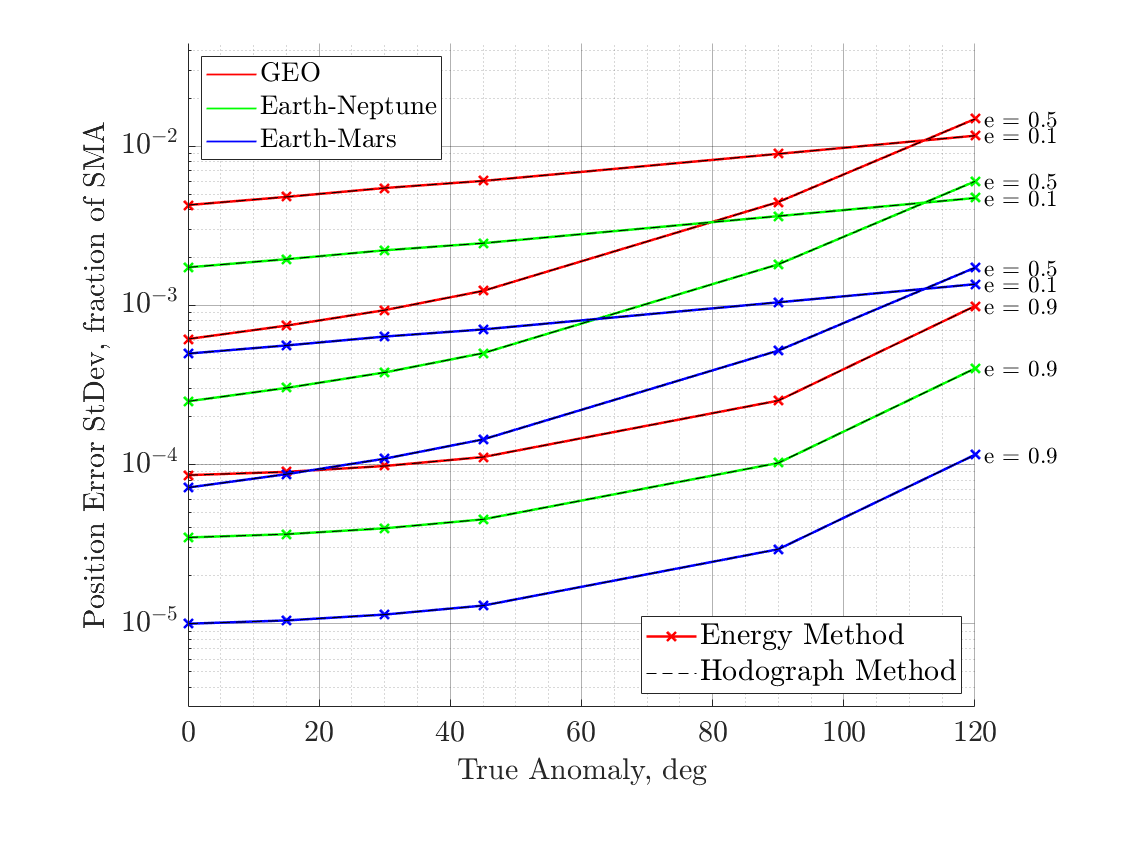
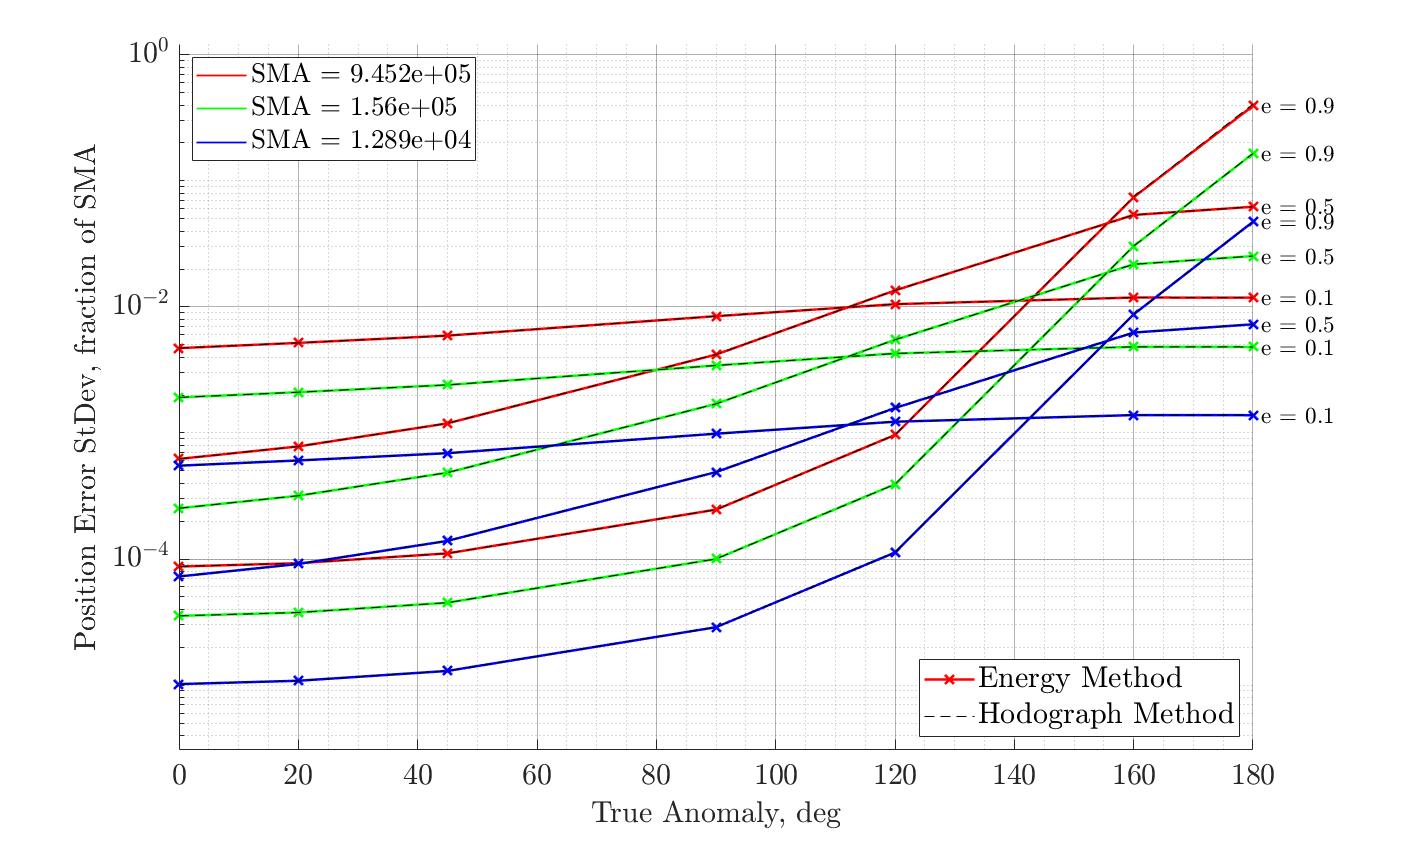
Update orbit parameter plot with latex table output and data saving fcns.
Reshaped plot to better show data and changed true anomaly vector

diff --git a/journal/plotOrbitParams.m b/journal/plotOrbitParams.m
@@ -44,8 +44,15 @@ numObsv = 3; % nd, number of measurements
 duration = 0.1; % nd, measurement duration as fraction of the orbit period
 
 % Monte Carlo settings
-numSims = 100;
+numSims = 1000;
 rngSeed = 1;
+
+% data logging
+filepath = 'data\orbitParams.mat';
+meanOrig = nan(length(eccVect),length(taVect),length(smaVect));
+meanHodo = nan(length(eccVect),length(taVect),length(smaVect));
+ stdOrig = nan(length(eccVect),length(taVect),length(smaVect));
+ stdHodo = nan(length(eccVect),length(taVect),length(smaVect));
 
 %% generate ground truth data and perturbations
 
@@ -145,7 +152,7 @@ taDeg = rad2deg(taVect);
 
 % --- mean error
 figure(1)
-latexify('plotSize',[24 18])
+latexify('plotSize',[30 18])
 hold on
 plot(taDeg,mean(errOrig)/SMA,origFormat,'Color',color,'LineWidth',origWidth)
 plot(taDeg,mean(errHodo)/SMA,hodoFormat,'LineWidth',hodoWidth)
@@ -159,7 +166,7 @@ latexify('fontSize',18)
 
 % --- standard deviation
 figure(2)
-latexify('plotSize',[24 18])
+latexify('plotSize',[30 18])
 hold on
 plot(taDeg,std(errOrig)/SMA,origFormat,'Color',color,'LineWidth',origWidth)
 plot(taDeg,std(errHodo)/SMA,hodoFormat,'LineWidth',hodoWidth)
@@ -171,15 +178,45 @@ ylabel('Position Error StDev, fraction of SMA')
 labelArray{i,j,2} = [taDeg(end),std(errOrig(:,end))/SMA];
 latexify('fontSize',18)
 
+% --- log data
+meanOrig(j,:,i) = mean(errOrig)'/SMA;
+meanHodo(j,:,i) = mean(errHodo)'/SMA;
+ stdOrig(j,:,i) =  std(errOrig)'/SMA;
+ stdHodo(j,:,i) =  std(errHodo)'/SMA;
+
 end %eccVect
 end %smaVect
+
+% save data to file
+save(filepath,'meanOrig','meanHodo','stdOrig','stdHodo',...
+              'smaVect','eccVect','taVect');
+
+% print data in latex table formatting
+regexprep(...
+regexprep(...
+regexprep(latex(vpa(sym(meanOrig(:,:,1)),10)),...
+    '([0-9]+\.[0-9]+)','${num2str(str2num($1),''%.3e'')}'),...
+    '(e[+-][0-9]+)',' \\times 10^{${strtok($1,''e'')}}'),...
+    '((?<=\{[+-])[0-9])','${regexprep($1,''^0*'','''')}')
+regexprep(...
+regexprep(...
+regexprep(latex(vpa(sym(meanOrig(:,:,2)),10)),...
+    '([0-9]+\.[0-9]+)','${num2str(str2num($1),''%.3e'')}'),...
+    '(e[+-][0-9]+)',' \\times 10^{${strtok($1,''e'')}}'),...
+    '((?<=\{[+-])[0-9])','${regexprep($1,''^0*'','''')}')
+regexprep(...
+regexprep(...
+regexprep(latex(vpa(sym(meanOrig(:,:,3)),10)),...
+    '([0-9]+\.[0-9]+)','${num2str(str2num($1),''%.3e'')}'),...
+    '(e[+-][0-9]+)',' \\times 10^{${strtok($1,''e'')}}'),...
+    '((?<=\{[+-])[0-9])','${regexprep($1,''^0*'','''')}')
 
 %% add annotations
 
 figure(1)
 set(gca, 'YScale', 'log')
 setgrid
-expand(0.07,0.12,0.07,0.05)
+expand(0.05,0.10,0.02,0.03)
 axis tight
 axlim = axis(gca) .* [1 1 0.3 3];
 xlim(axlim(1:2))
@@ -203,7 +240,7 @@ end
 figure(2)
 set(gca, 'YScale', 'log')
 setgrid
-expand(0.07,0.12,0.07,0.05)
+expand(0.05,0.10,0.02,0.03)
 axis tight
 axlim = axis(gca) .* [1 1 0.3 3];
 xlim(axlim(1:2))
@@ -235,7 +272,7 @@ for i = 1:length(smaVect)
     h(i) = plot(sin(1:10),'Parent',ax2,...
                           'Color',cmap(i,:),...
                           'LineWidth',1,...
-                          'DisplayName',names{i});
+                          'DisplayName',['SMA = ' num2str(smaVect(i),4)]);
 end
 hold(ax2,'off')
 legend(ax2, 'Location','NorthWest')
@@ -257,7 +294,7 @@ for i = 1:length(smaVect)
     h(i) = plot(sin(1:10),'Parent',ax2,...
                           'Color',cmap(i,:),...
                           'LineWidth',1,...
-                          'DisplayName',names{i});
+                          'DisplayName',['SMA = ' num2str(smaVect(i),4)]);
 end
 hold(ax2,'off')
 legend(ax2, 'Location','NorthWest')

diff --git a/journal/cases/load_orbit_cases.m b/journal/cases/load_orbit_cases.m
@@ -23,8 +23,8 @@ noise_canon = 1e-6;
 noise = 3; % m/s
 noise = noise / 1000; % km/s
 
-eccVect = [0.1,0.5,0.8];
-taVect  = [0, 15, 30, 45, 90, 120];
+eccVect = [0.1,0.5,0.9];
+taVect  = [0, 20, 45, 90, 120, 160, 180];
 taVect  = deg2rad(taVect);
 smaVect = [];
 names = {};
